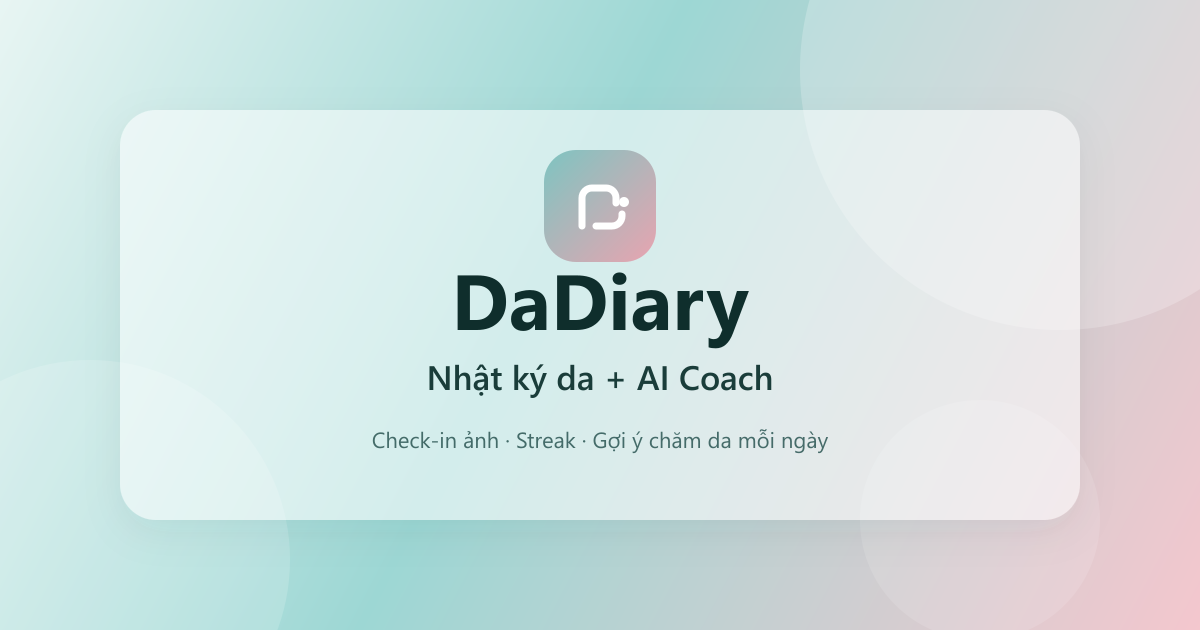
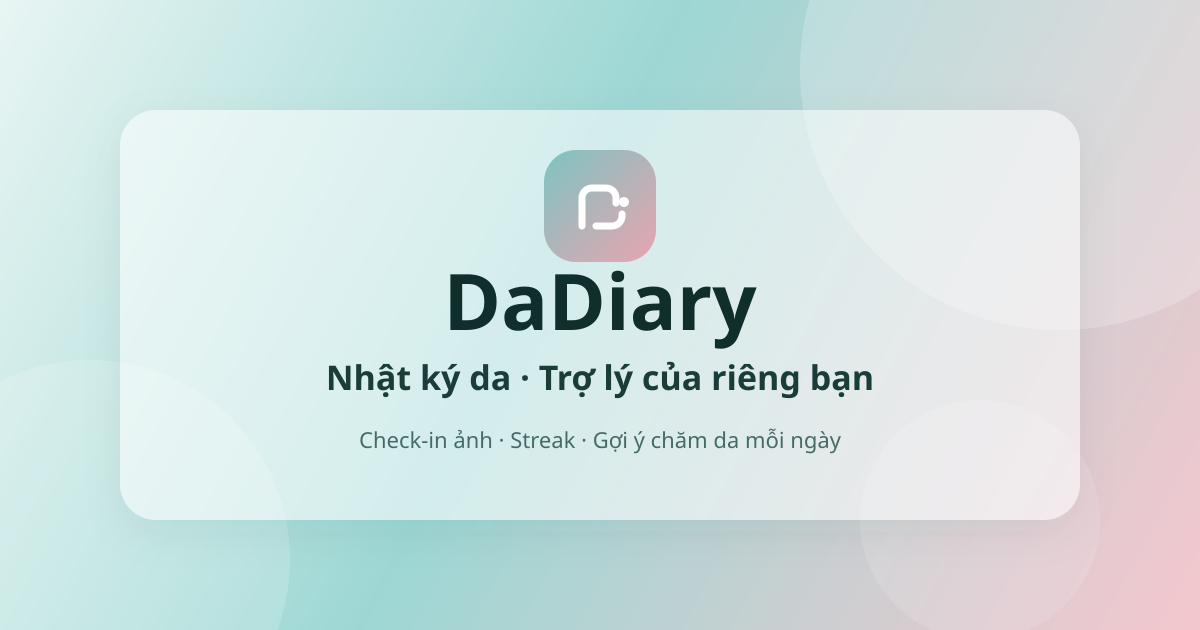
Lock public brand copy to the DaDiary slogan. (#34)
Use “DaDiary — Nhật ký da · Trợ lý của riêng bạn” (EN: “Skin diary · Your own assistant”) for document title, OG alt, landing tagline, footer, PWA name, and the default OG image.

Changed region(s): [[0.2775, 0.4222, 0.74, 0.6333], [0.3083, 0.6635, 0.7092, 0.7238]]

diff --git a/lib/seo.ts b/lib/seo.ts
@@ -49,7 +49,7 @@ export const DEFAULT_OG_IMAGE = {
   url: "/og/og-default.png",
   width: 1200,
   height: 630,
-  alt: "DaDiary — Nhật ký da + AI Coach",
+  alt: "DaDiary — Nhật ký da · Trợ lý của riêng bạn",
 } as const;
 
 export type OgImage = {
